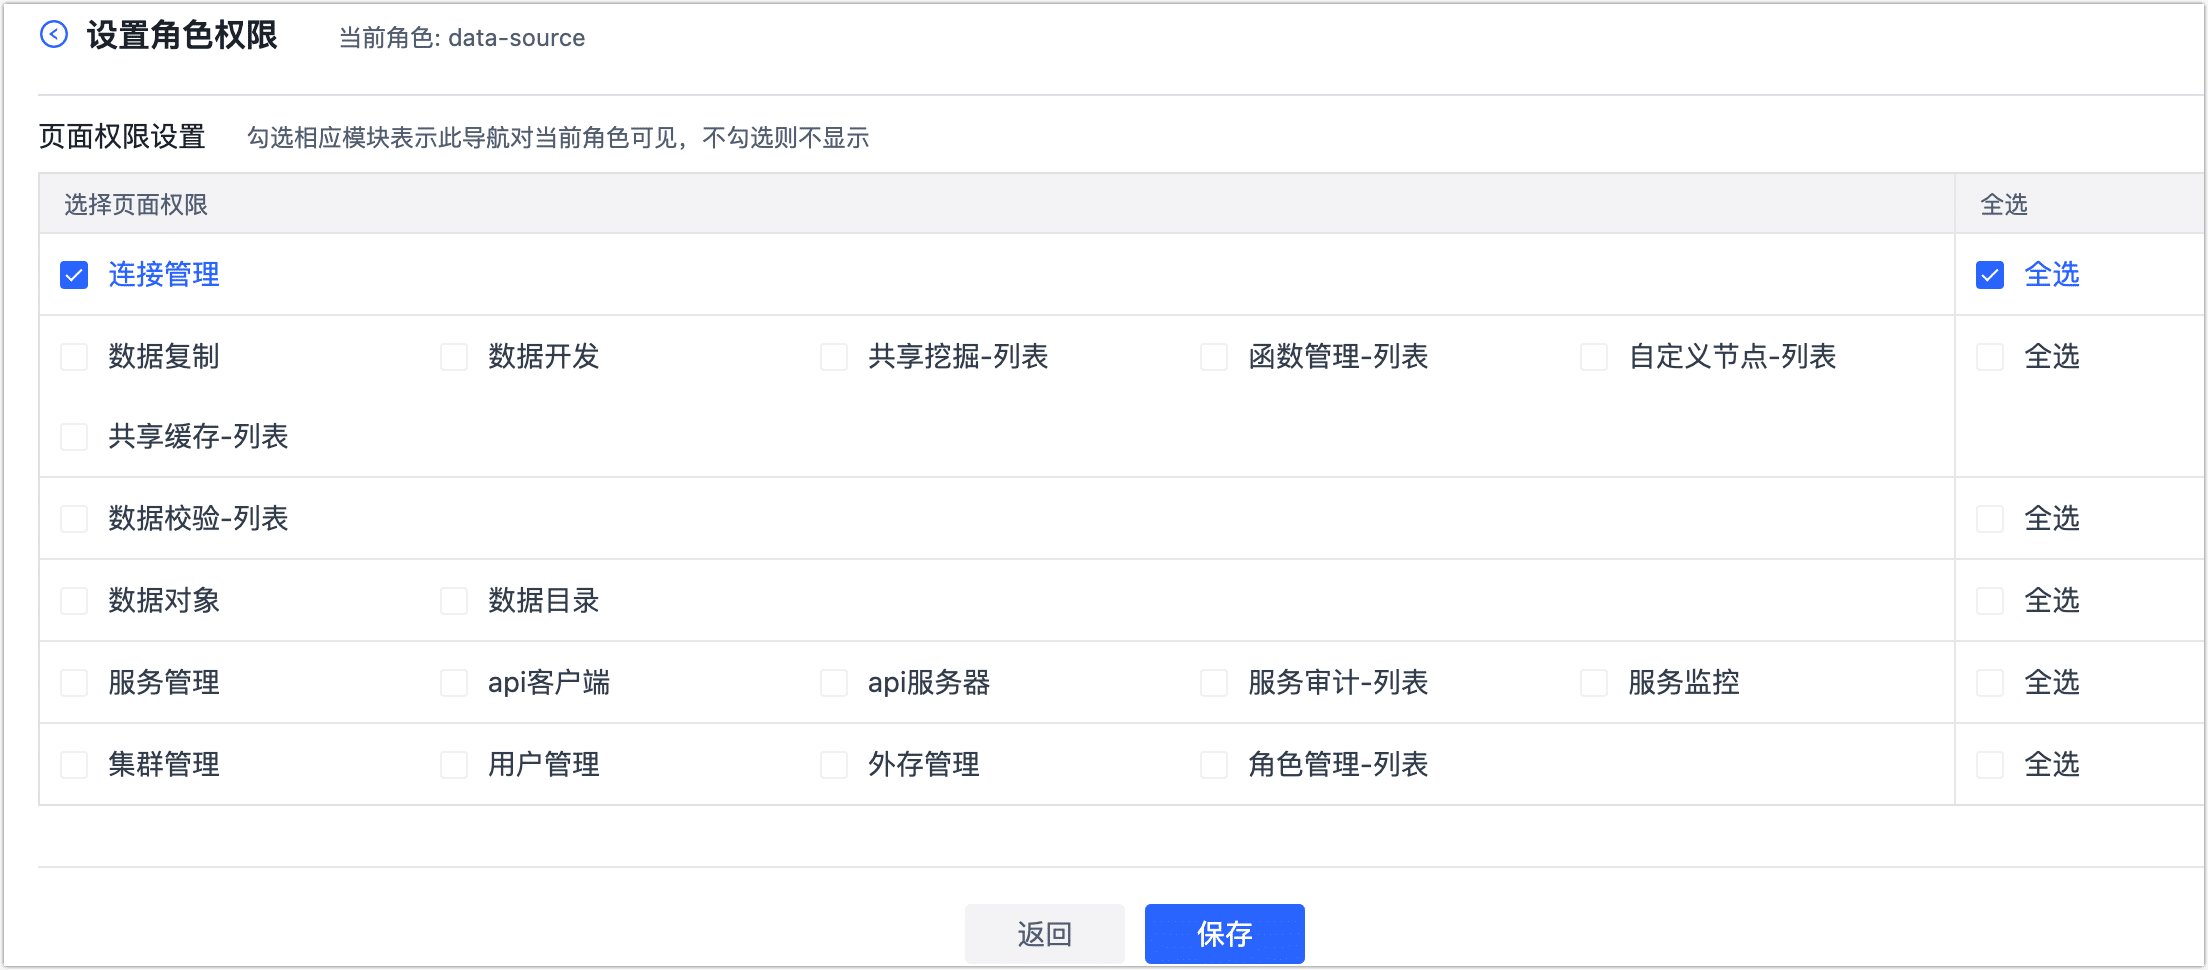
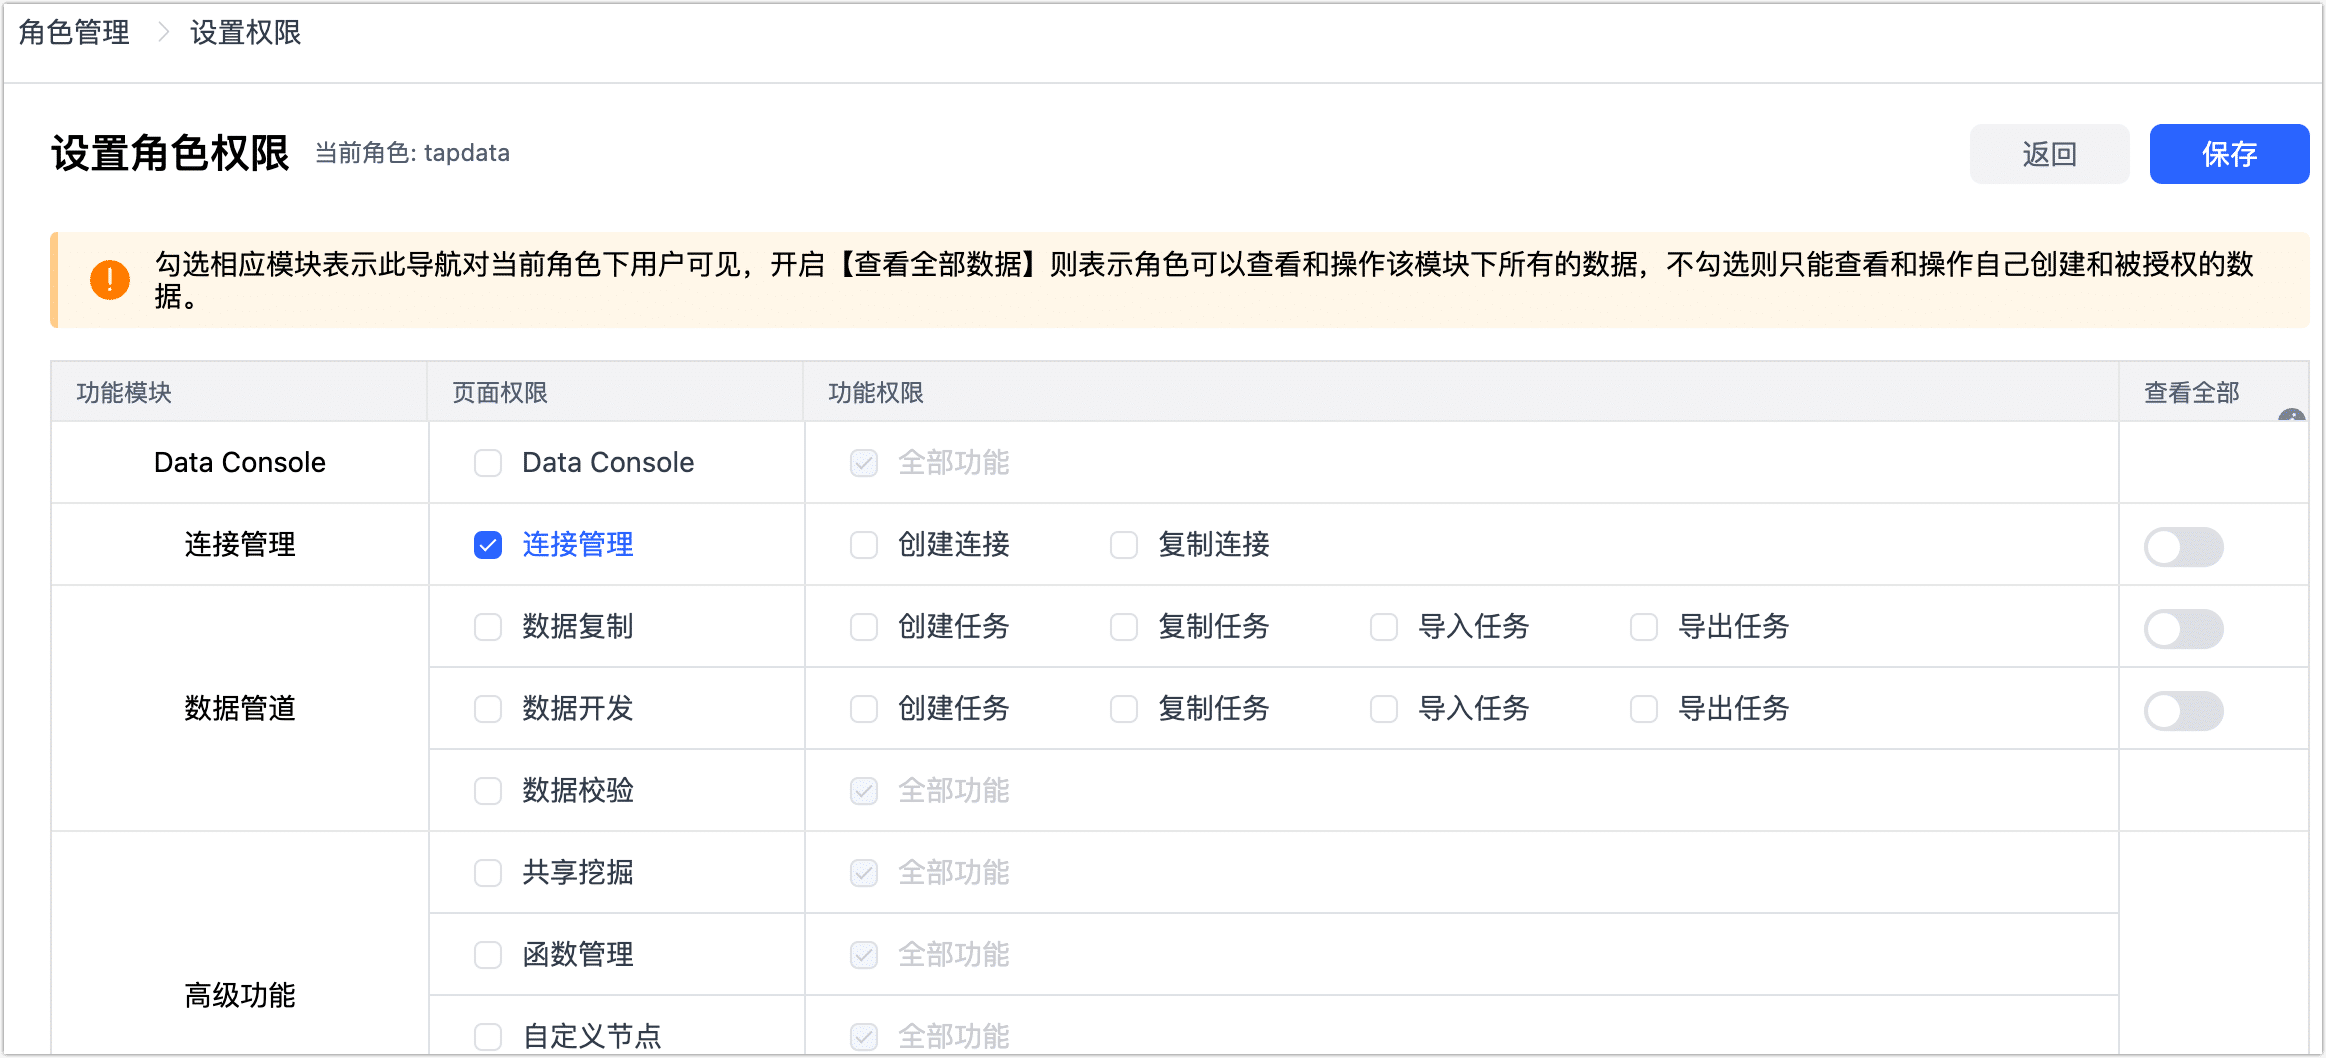
Release: 3.5.1
For more information, see release notes in docs

diff --git a/docs/enterprise/user-guide/data-pipeline/data-development/process-node.md b/docs/enterprise/user-guide/data-pipeline/data-development/process-node.md
@@ -85,36 +85,41 @@ Tapdata 支持在数据转换任务中添加处理节点，满足对数据进行
 
 ## 主从合并
 
-主从合并节点主要是为用户解决多张表合并到一张宽表同时表主从关联关系的情况
+在大数据处理和分析中，数据合并和转换是一个关键的任务，在本案例中，我们以 [SSB 数据集](https://www.cs.umb.edu/~poneil/StarSchemaB.PDF)的 `lineorder` 和 `date` 表为例，介绍如何使用 Tapdata 来实现多表合并到一个 MongoDB 集合的需求。
 
-源端需为多个表节点，目标需为一个MongoDB节点
+:::tip
 
-源端的表之间可通过拖拽嵌套，确定主从关系
+使用主从合并节点时，目标库需为自行部署的 MongoDB 或 MongoDB Atlas。
 
-数据写入模式：源端数据写到目标端是执行的策略，默认为更新已存在或插入新数据
+:::
 
-关联后写入路径：默认为空，输入后会写到目标MongoDB的该路径下
+**操作流程**：
 
-关联条件：设置源与目标的主键关联关系可添加多个，该值一致时判定为同一条数据
+1. 登录 Tapdata 平台。
 
-![](../../../images/process_node_7.png)
+2. 在左侧导航栏，选择**数据管道** > **数据转换**。
 
+3. 单击页面右侧的**创建**。
 
+4. 在页面左侧依次拖入要执行主从合并的数据源至右侧画布，然后从页面左下角拖入**主从合并**节点，最后将它们按照下述顺序连接起来。
 
-**场景演示：**
+   ![添加主从合并节点](../../../images/primary_secondary_merge_node_conn1.png)
 
-希望将多张 MySQL、PostgreSQL 的表合并并同步到 MongoDB 中
+5. 依次单击要执行追加合并的数据源，分别在页面右侧的面板中选择待合并的表（**lineorder** / **date**）。
 
-**操作思路：**将多张需要同步的表的连接创建完成并作为源，然后通过主从合并节点进行连接并最终连接MongoDB节点作为目标
+6. 单击**主从合并**节点，将 date 表拖拽进入 lineoder 表中来表示它们的从属关系，随后即可查看到合并后的表结构信息。
 
-**具体流程：**
+   ![设置主从合并节点](../../../images/primary_secondary_merge_node_setting.png)
 
-1. 打开数据管道 > 数据转换。
-2. 点击右上角**创建任务**按钮。
-3. 选择多个MySQL、PostgreSQL连接作为源节点。
-4. 拖拽一个主从节点，配置好连接j间的主从关系和关联字段。
-5. 选择一个MongoDB连接作为目标节点，选择一个表。
-6. 点击右上角**保存**按钮，然后点击任务的**启动**按钮。
+7. 从页面左侧拖入一个 MongoDB 或 MongoDB Atalas 数据源用于存放追加合并后的表，然后将**追加合并**节点连接至该数据源。
+
+8. 单击用于存放追加合并表的数据源，在页面右侧的面板中选择目标表或输入表名由 Tapdata 自动创建，完成设置后选择更新条件自动。
+
+   ![追加合并示例](../../../images/primary_secondary_merge_node_conn2.png)
+
+9. 确认配置无误后，单击**启动**。
+
+   操作完成后，您可以在当前页面观察任务的执行情况，如 QPS、延迟、任务时间统计等信息。
 
 
 

diff --git a/docs/cloud/prerequisites/on-prem-databases/redis.md b/docs/cloud/prerequisites/on-prem-databases/redis.md
@@ -20,15 +20,17 @@ Redis 2.8 ~ 6.0
 
    ![连接 Redis](../../images/connect_redis.png)
 
-   * **连接名称**：填写具有业务意义的独有名称。
-   * **连接类型**：目前仅支持**目标**。
-   * **部署模式**：选择**单机部署**或**哨兵部署**，如选择**哨兵部署**，您还需要填写哨兵地址。
-   * **数据库地址**：填写数据库的连接地址。
-   * **端口**：填写数据库的服务端口。
-   * **数据库名称**：填写数据库名称，例如 **0**。
+   * 连接设置
+     * **连接名称**：填写具有业务意义的独有名称。
+     * **连接类型**：目前仅支持**目标**。
+     * **部署模式**：选择**单机部署**或**哨兵部署**，如选择**哨兵部署**，您还需要填写哨兵地址。
+     * **数据库地址**：填写数据库的连接地址。
+     * **端口**：填写数据库的服务端口。
+     * **数据库名称**：填写数据库名称，例如 **0**。
+   * 高级设置
    * **Schema 键**：存储为 List 或 Hash 格式，且选择为单键方式时，支持将源表 Schema 写入一个 Hash 键（默认名称为 `-schema-key-`），其值用来存放源表的表名和列名信息。
    * **是否使用密码**：如 Redis 启用了密码验证，您需要打开该开关并填写数据库密码。
-   * **agent 设置**：默认为**平台自动分配**，您也可以手动指定。
+   * **Agent 设置**：默认为**平台自动分配**，您也可以手动指定。
 
 6. 单击**连接测试**，测试通过后单击**保存**。
 

diff --git a/docs/enterprise/user-guide/manage-system/manage-role.md b/docs/enterprise/user-guide/manage-system/manage-role.md
@@ -2,8 +2,6 @@
 
 角色是一个或多个权限合集，您可以为一个角色授予多个操作权限，然后将角色授予给[用户](manage-user.md)，该用户将继承该角色中的所有权限。基于此设计，您可以基于业务需求预先创建好角色，随后在创建用户直接赋予其角色，无需为每个用户配置权限，从而简化运维管理，提升安全性。
 
-
-
 ## 操作步骤
 
 1. 以系统管理员身份登录 Tapdata 平台。
@@ -23,16 +21,17 @@
 
      :::tip
 
-     如下图所示，我们仅为其赋予了**连接管理**的权限，该用户登录 Tapdata 后，仅可看到连接管理管理菜单。
-
+     * 如下图所示，我们仅为其赋予了**连接管理**的权限，该用户登录 Tapdata 后，仅可看到连接管理管理菜单，而且不允许该角色创建和复制连接。
+     * 当前支持精细权限控制的功能模块为连接管理和数据管道。
+   
      :::
-
+   
      ![设置角色权限](../../images/grant_data_srouce.png)
-
+   
    * **为角色关联用户**：单击目标角色的**关联用户**，在弹出的对话框中，选择目标用户（可多选）并单击**确定**，该用户即可自动继承当前角色的所有权限。
-
+   
    * **编辑角色基本信息**：单击目标角色的**编辑**，设置角色名称、描述、是否为默认角色。
-
+   
    * **删除角色**：确保目标角色没有关联任何角色，单击目标角色的**删除**，在弹出的对话框中单击**确定**。
    
      :::caution

diff --git a/docs/enterprise/user-guide/connect-database/certified/connect-clickhouse.md b/docs/enterprise/user-guide/connect-database/certified/connect-clickhouse.md
@@ -29,10 +29,10 @@ ClickHouse的主键如果为浮点数会导致更新删除事件处理异常。
      * **端口**：数据库的 HTTP API 服务端口，默认为 **8123**，如开启了 SSL 加密，默认端口为 8443，更多介绍，见[网络端口说明](https://clickhouse.com/docs/en/guides/sre/network-ports/)。
      * **数据库名称**：数据库名称，即一个连接对应一个数据库，如有多个数据库则需创建多个数据连接。
      * **账号**、**密码**：数据库的账号和密码，账号的创建和授权方法，见 [ClickHouse 数据源准备工作](../../../prerequisites/certified/clickhouse.md)。
-     * **其他连接串参数**：额外的连接参数，默认为空。
    * 高级设置
+     * **其他连接串参数**：额外的连接参数，默认为空。
      * **时区**：默认为数据库所用的时区，您也可以根据业务需求手动指定。
-     * **agent 设置**：默认为**平台自动分配**，您也可以手动指定。
+     * **Agent 设置**：默认为**平台自动分配**，您也可以手动指定。
      * **模型加载时间**：当数据源中模型数量小于 10,000 时，每小时刷新一次模型信息；如果模型数据超过 10,000，则每天按照您指定的时间刷新模型信息。
 
 6. 单击**连接测试**，测试通过后单击**保存**。

diff --git a/docs/cloud/prerequisites/on-prem-databases/mysql.md b/docs/cloud/prerequisites/on-prem-databases/mysql.md
@@ -14,7 +14,7 @@ import Content1 from '../../../reuse-content/certificate/_mysql-as-source.md';
 
 <Content1 />
 
-      
+      
 
 ### 作为目标库
 
@@ -47,8 +47,8 @@ import Content2 from '../../../reuse-content/certificate/_mysql-as-target.md';
         * **数据库**：数据库名称，即一个连接对应一个数据库，如有多个数据库则需创建多个数据连接。
         * **账号**：数据库的账号。
         * **密码**：数据库账号对应的密码。
-        * **连接参数**：额外的连接参数，默认为空。
     * 高级设置
+        * **连接参数**：额外的连接参数，默认为空。
         * **时区**：默认为数据库所用的时区，您也可以根据业务需求手动指定。
           如果源库为默认数据库时区（+8:00），目标端数据库为指定时区+0:00，那么假设源端数据库存储的时间为 2020-01-01 16:00:00，目标端数据库存储的时间则为 2020-01-01 08:00:00
         * **包含表**：默认为**全部**，您也可以选择自定义并填写包含的表，多个表之间用英文逗号（,）分隔。

diff --git a/docs/cloud/release-notes.md b/docs/cloud/release-notes.md
@@ -13,6 +13,21 @@ import TabItem from '@theme/TabItem';
 <Tabs className="unique-tabs">
   <TabItem value="2023" label="2023 年" default>
 ```
+### 20230826
+
+#### 新增功能
+
+- 新增[主从合并节点](user-guide/data-development/process-node#pri-sec-merged)，可实现宽表的快速构建和实时更新，帮助您更好地实现数据分析
+
+#### 功能优化
+
+- 将连接数据源时右侧展示帮助文档，调整为内嵌的在线文档，帮助用户获取最新的帮助信息
+- 对核心数据源（如 PostgreSQL、Redis等），优化创建连接时的页面参数介绍和指引
+
+#### 问题修复
+
+* 修复了运行过的任务无法查看运行监控页面的问题
+
 ### 20230811
 
 #### 新增功能

diff --git a/docs/enterprise/what-is-tapdata-enterprise.md b/docs/enterprise/what-is-tapdata-enterprise.md
@@ -7,8 +7,7 @@ slug: /
 
 [Tapdata](https://tapdata.net) 是一款面向数据服务的平台化产品，旨在帮助企业打破多个数据孤岛，完成数据快速交付，同时依靠实时数据同步，提高数据传输效率。我们还支持通过低代码的方式创建任务，简单的拖拽节点即可完成创建，有效降低开发难度，缩短项目上线周期。
 
-![](https://20778419.s21i.faiusr.com/3/2/ABUIABADGAAgtLr-lgYotInUhwYwgA84uAg.gif)
-
+<iframe      src="https://20778419.s21v.faiusr.com/58/2/ABUIABA6GAAg-NP9pQYokaGd7AE.mp4"   width="100%"   height="500"      frameborder="0"    allowfullscreen="true" > </iframe>
 
 
 ## 为什么选择 Tapdata

diff --git a/docs/cloud/what-is-tapdata-cloud.md b/docs/cloud/what-is-tapdata-cloud.md
@@ -6,7 +6,8 @@ sidebar_position: 1
 
 Tapdata Cloud 是由 Tapdata 提供的集数据复制、数据转换、数据开发为一体的实时数据服务，能够在跨云、跨地域、多类型数据源的场景下，提供毫秒级的实时数据同步服务和数据融合服务。
 
-![](images/tapdata_cloud.gif)
+
+<iframe      src="https://20778419.s21v.faiusr.com/58/2/ABUIABA6GAAg-NP9pQYokaGd7AE.mp4"   width="100%"      height="463"      frameborder="0"    allowfullscreen="true"  > </iframe>
 
 ## 为什么选择 Tapdata Cloud
 

diff --git a/docs/enterprise/release-notes.md b/docs/enterprise/release-notes.md
@@ -4,6 +4,19 @@
 
 
 
+## V3.5.1
+
+- [创建角色](user-guide/manage-system/manage-role.md)时，支持对功能和数据权限的精细化权限授予            
+
+### 功能优化
+
+- 对核心数据源（如 PostgreSQL、Redis等），优化创建连接时的页面参数介绍和指引
+- 优化将 MongoDB 作为外存时的测试项
+
+### 问题修复
+
+* 修复了运行过的任务无法查看运行监控页面的问题
+
 ## V3.4
 
 ### 新增功能

diff --git a/docs/enterprise/support.md b/docs/enterprise/support.md
@@ -2,6 +2,8 @@
 
 除查阅 Tapdata 文档外，您还可以通过用户社区和工单系统来获取 Tapdata 产品的原厂技术支持。
 
+
+
 ## 账号说明
 
 在获取支持前，您需要[注册 Tapdata Cloud](https://auth.tapdata.net/)并前往用户中心绑定邮箱，使用该邮箱来登录用户社区和工单系统。
